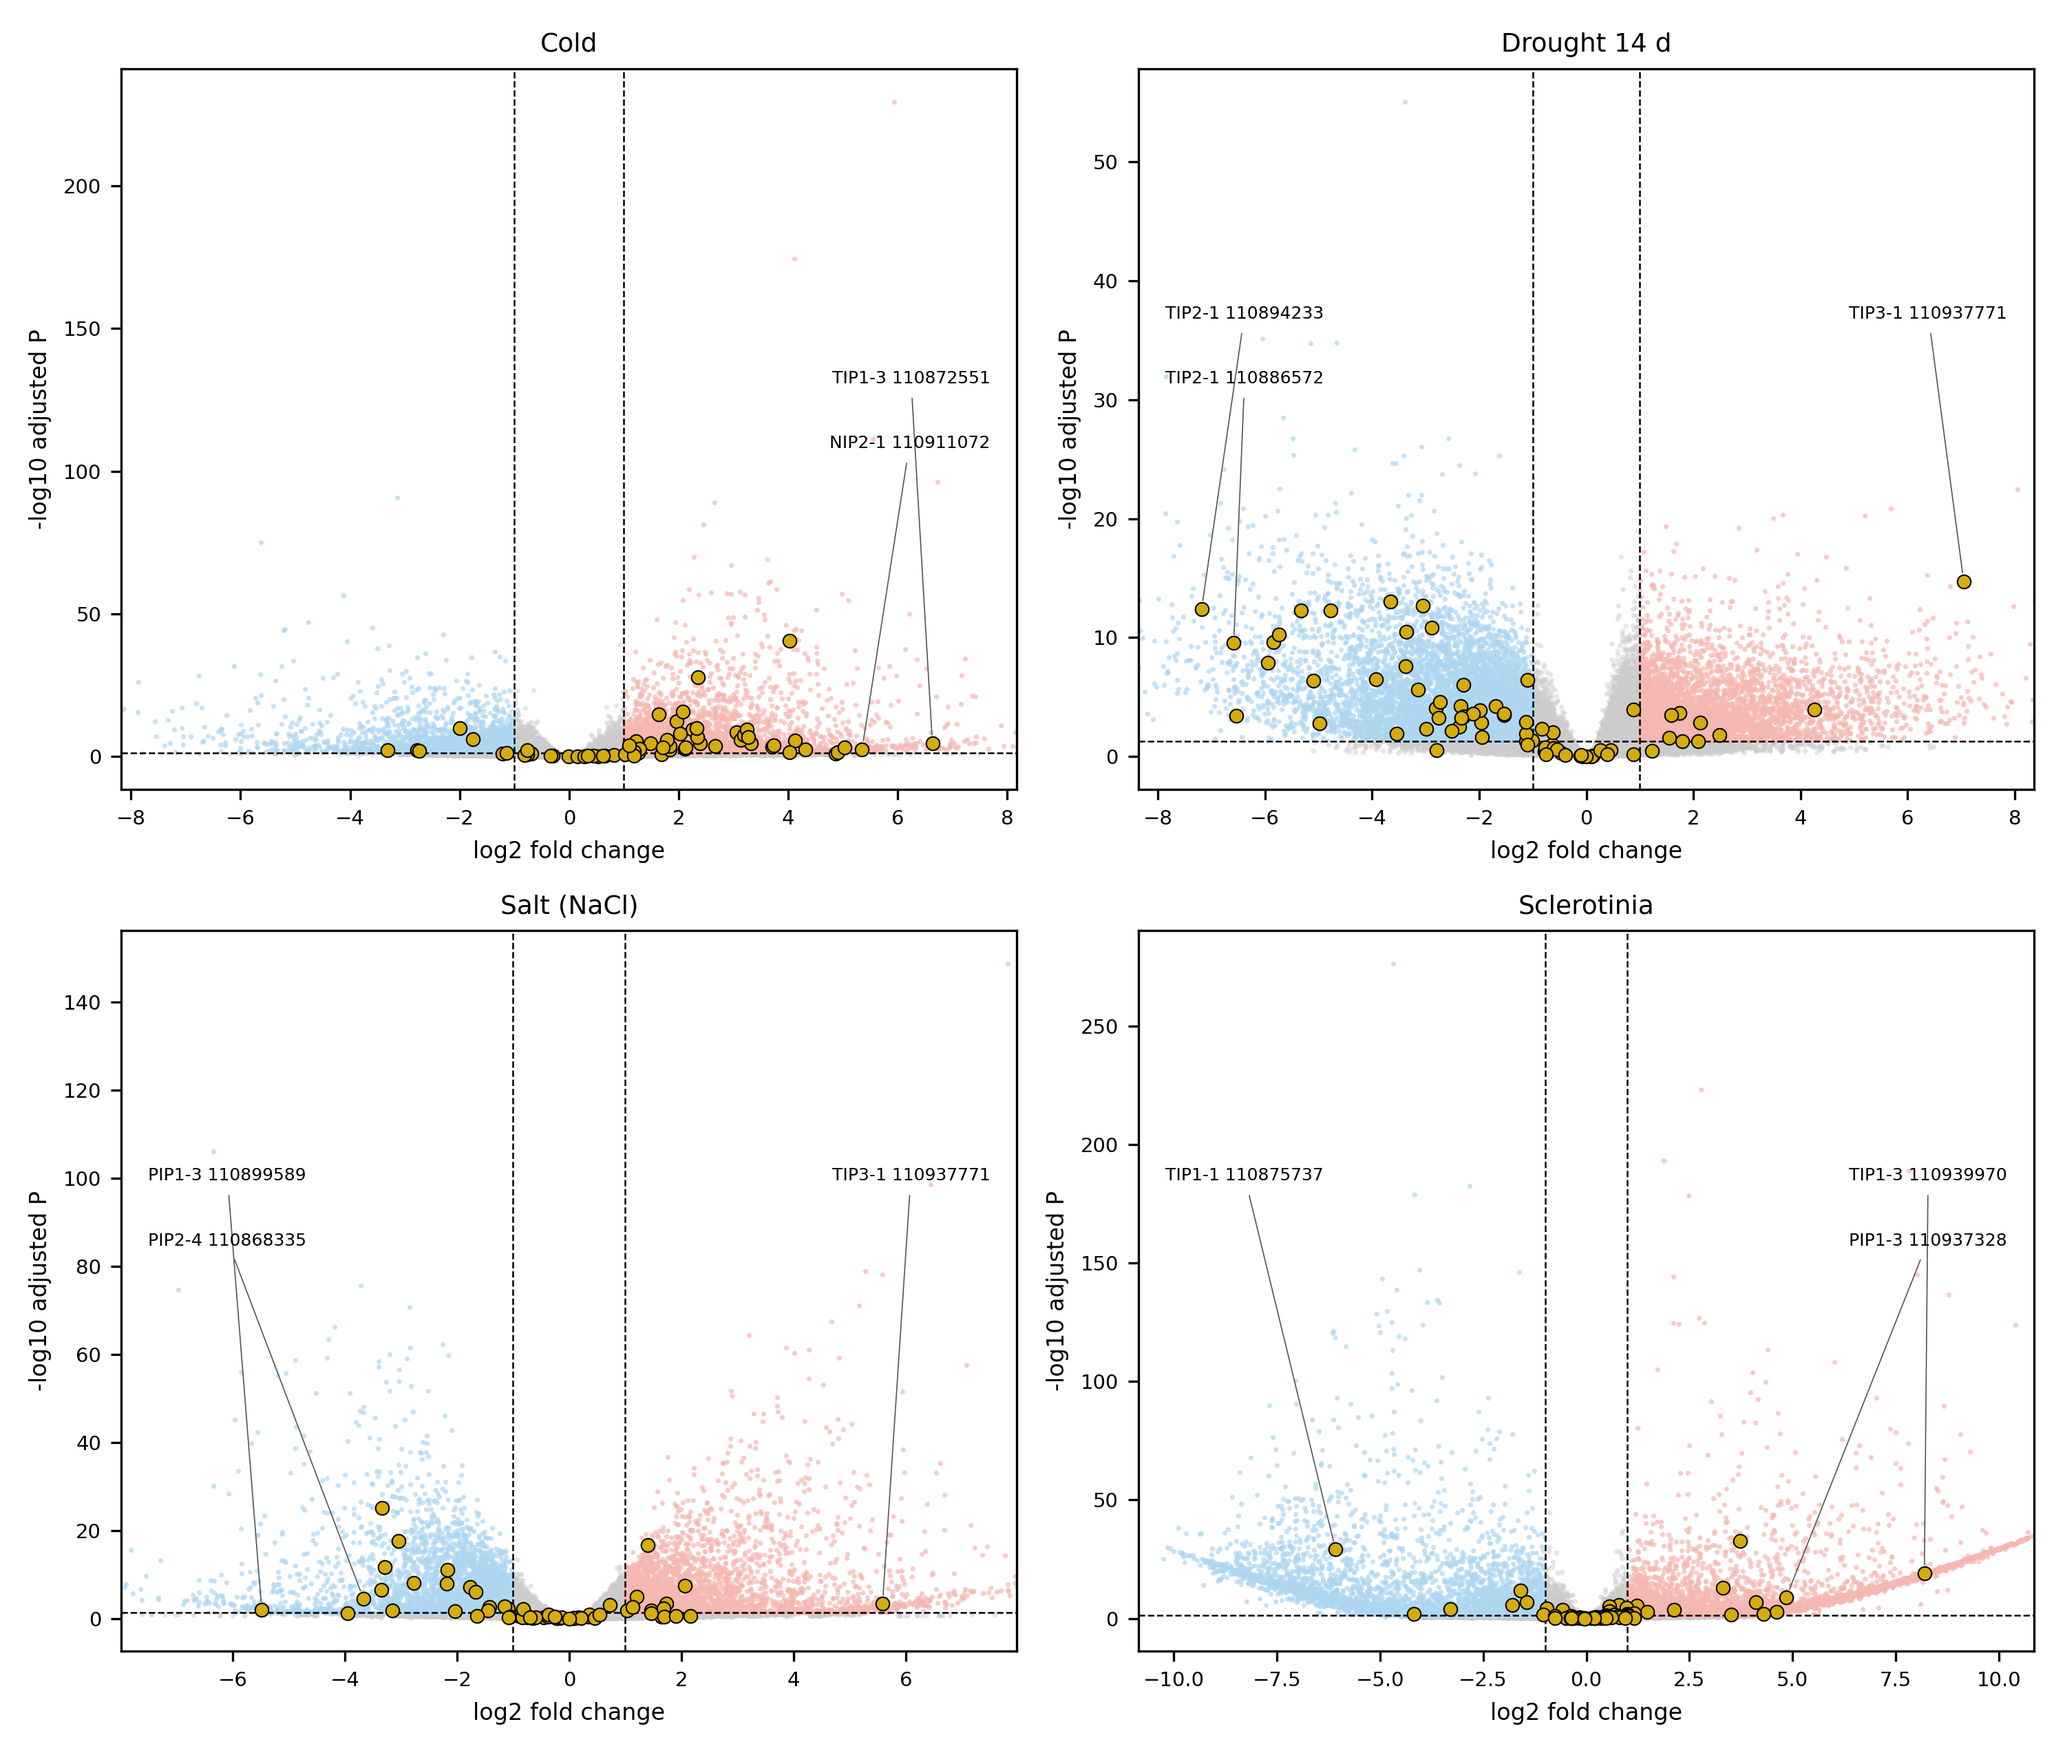
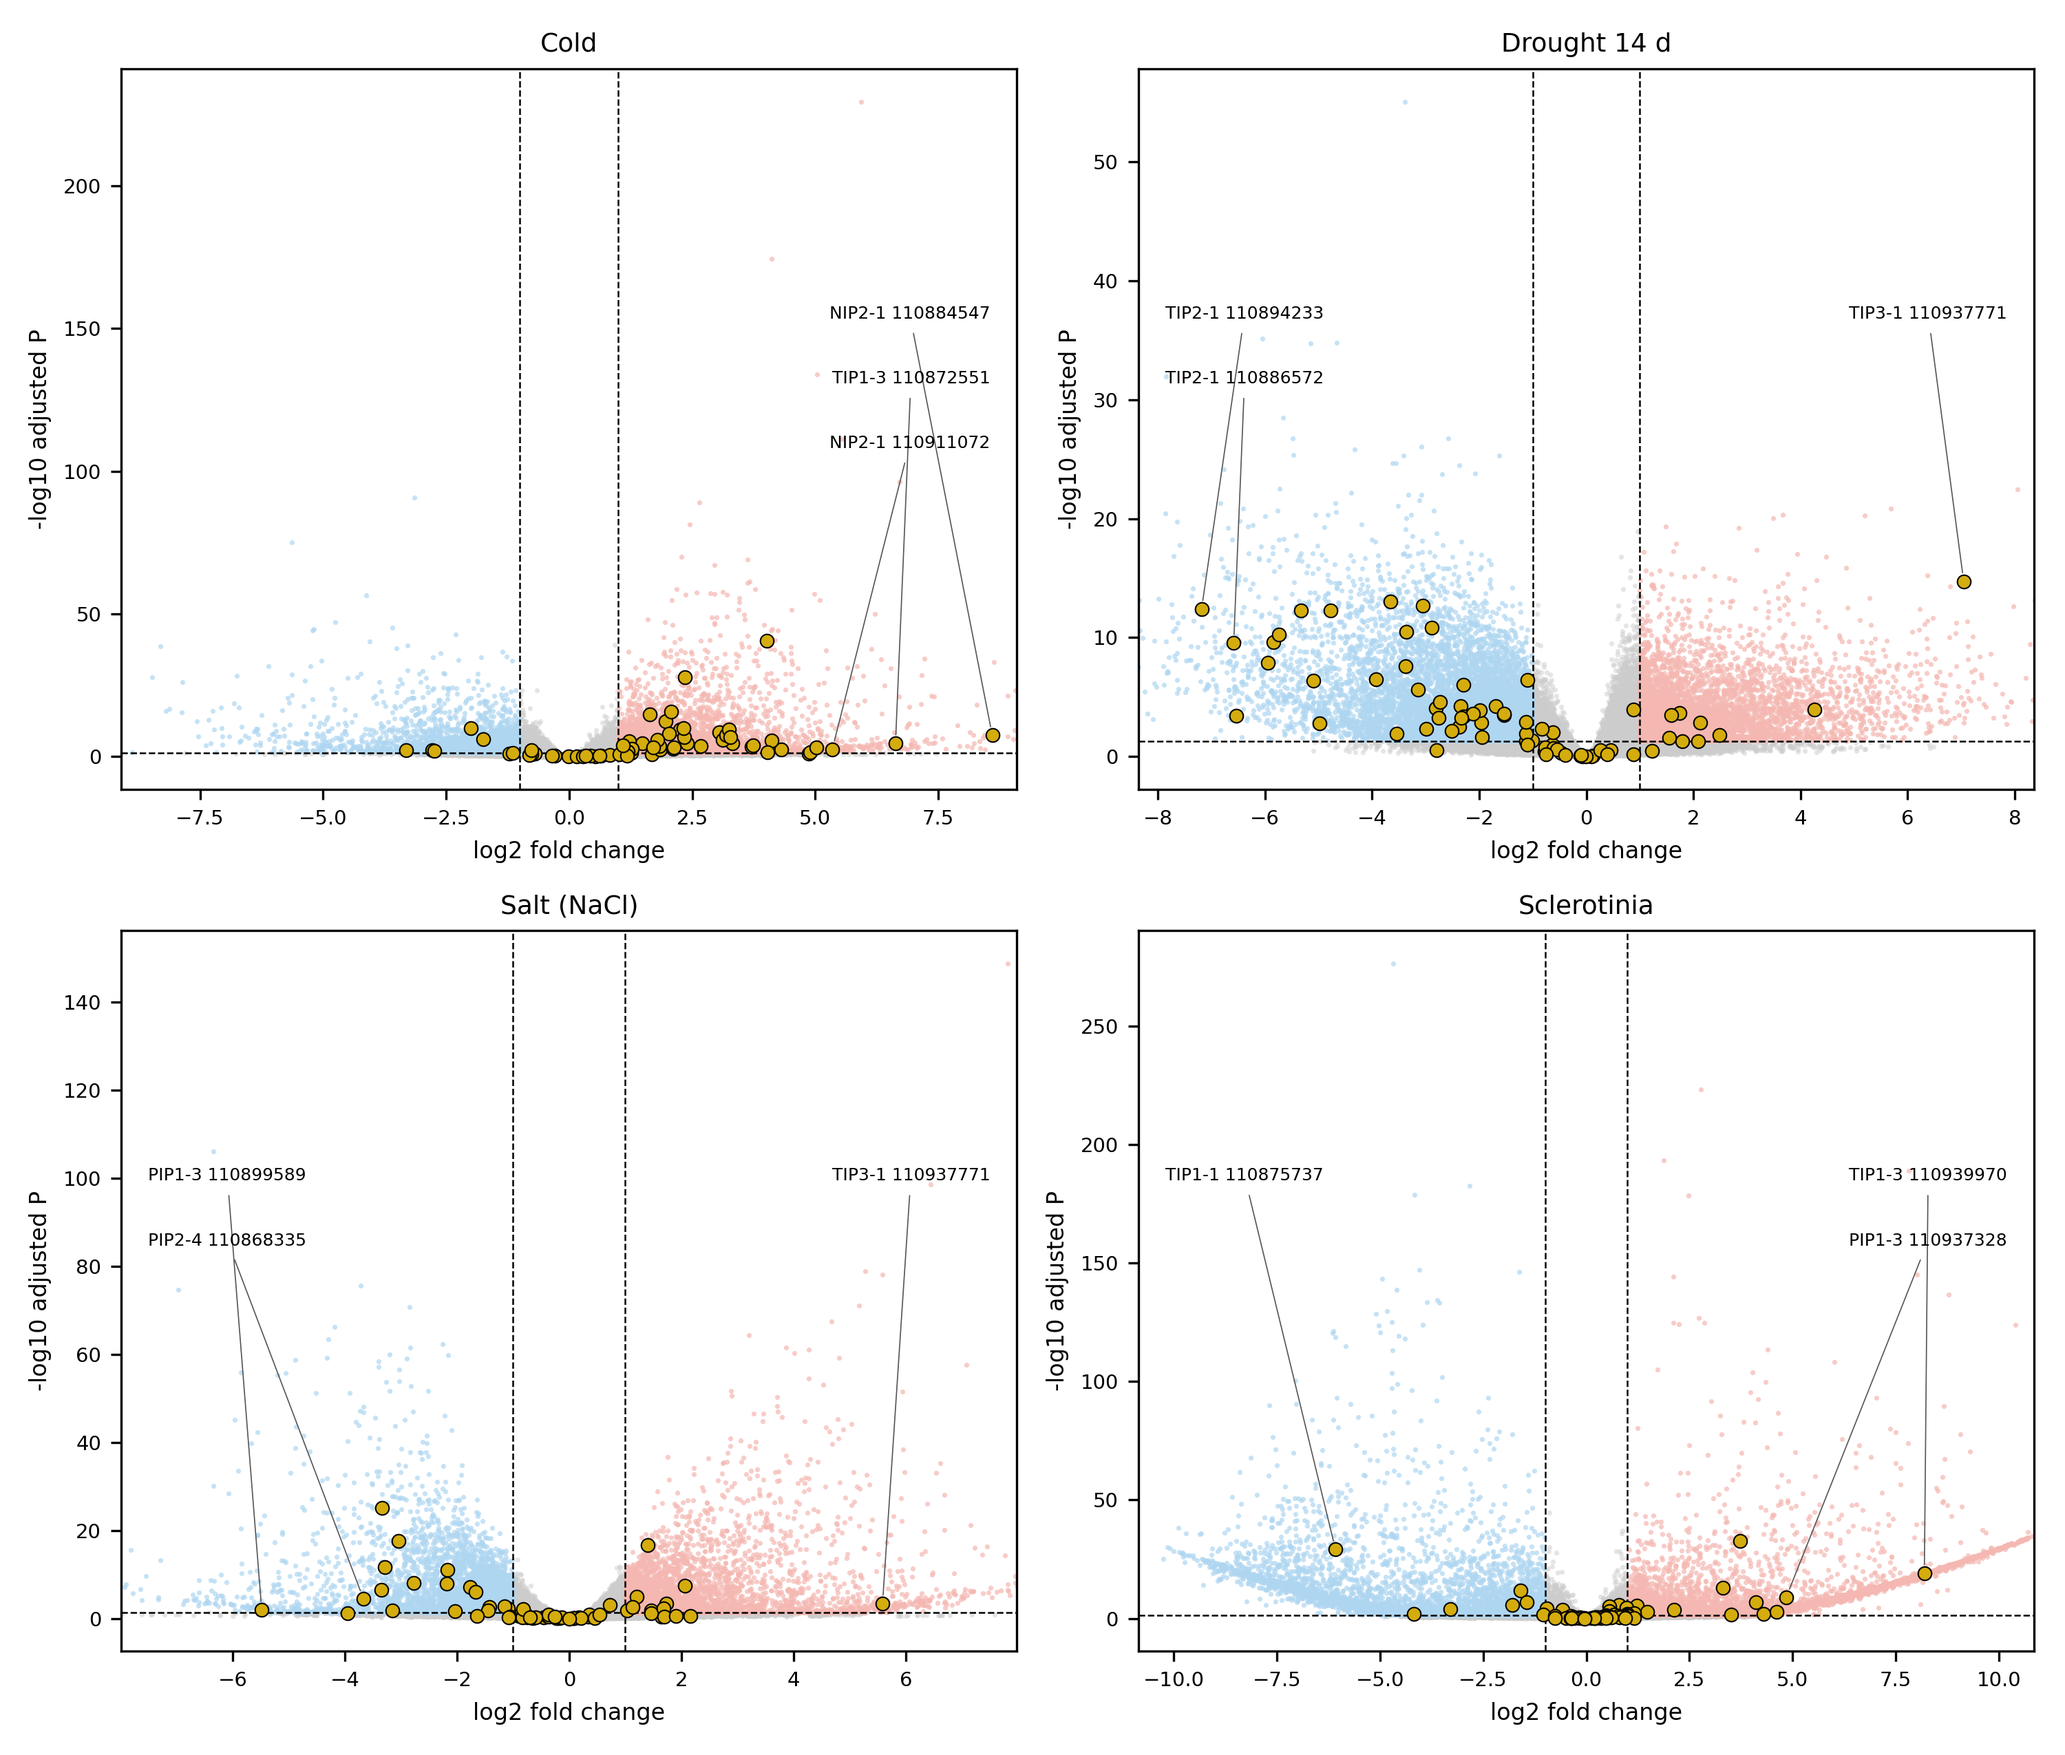
Fig 4: extend the x axis so that no aquaporin point is clipped

Changed region(s): [[0.062, 0.3408, 0.496, 0.4337], [0.434, 0.2478, 0.465, 0.3098]]

diff --git a/08_figures/fig_volcano.py b/08_figures/fig_volcano.py
@@ -57,7 +57,8 @@ for ax, (title, proj, fn) in zip(axes.flat, PANELS):
     n_up = sum(1 for l, yy, g, s in labels if s and l > 0); n_dn = sum(1 for l, yy, g, s in labels if s and l < 0)
     ax.set_title(title, fontsize=9)
     ax.set_xlabel("log2 fold change", fontsize=8); ax.set_ylabel("-log10 adjusted P", fontsize=8); ax.tick_params(labelsize=7)
-    lim = max(6, np.percentile(np.abs(x), 99.9)); ax.set_xlim(-lim, lim)
+    # x limits: the bulk of the genome-wide points (99.9th percentile) but never clipping an aquaporin
+    lim = max(6, np.percentile(np.abs(x), 99.9), (max(abs(v) for v in ax_x) + 0.5) if ax_x else 0); ax.set_xlim(-lim, lim)
 fig.tight_layout()
 fig.savefig(L.fig_path("Fig4_volcano_plots.pdf")); fig.savefig(L.fig_path("Fig4_volcano_plots.png"), dpi=300)
 print("wrote Fig4_volcano_plots.pdf/.png")
